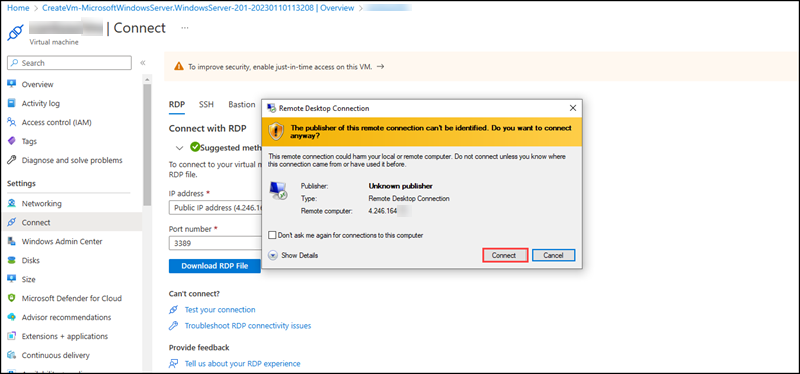
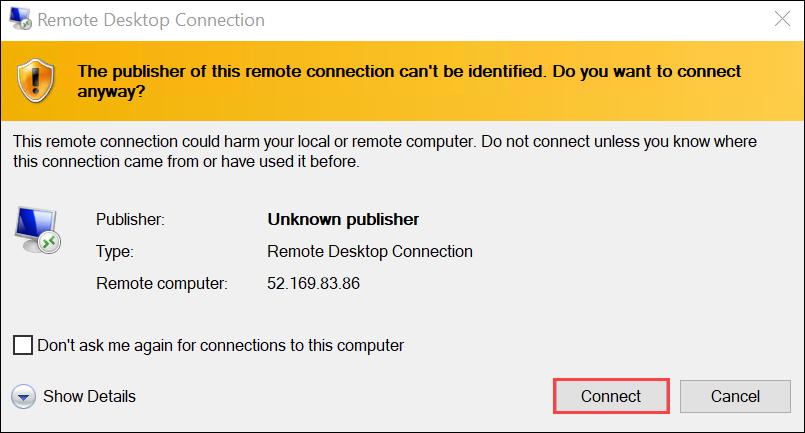
updated

diff --git a/Instructions/Labs/M02-Unit 3 Create and configure a virtual network gateway.md b/Instructions/Labs/M02-Unit 3 Create and configure a virtual network gateway.md
@@ -143,9 +143,9 @@ In this task, you'll connect to the Test VMs using RDP, you'll connect to both M
 
    ![](../media/m2-u3-t4-s5.png)
 
-1. Open the **ManufacturingVM.rdp** file that was just downloaded and click on **Connect** when prompted.
+     ![](../media/m2-u3-t4-s6-a.png)
 
-   ![](../media/m2-u3-t4-s6-a.png)
+1. Open the **ManufacturingVM.rdp** file that was just downloaded and click on **Connect** when prompted.
 
    ![](../media/m2-u3-t4-s6-b.png)
 
@@ -191,28 +191,34 @@ In this task you'll create CoreServicesVnet Gateway, you will create the CoreSer
 
 1. In **Search resources, services, and docs (G+/)** box at the top of the portal, enter **Virtual network gateway (1)**, and then select **Virtual network gateways (2)** from the results.
 
-    ![](../media/mod2-unit3-image1.png)
+   ![](../media/8.png)
 
 1. In Virtual network gateways, select **+ Create**.
+
+    ![](../media/7.png)
 
 1. Use the information in the following table to create the virtual network gateway:
 
    | **Tab**         | **Section**       | **Option**                                  | **Value**                    |
    | --------------- | ----------------- | ------------------------------------------- | ---------------------------- |
-   | Basics          | Project Details   | Subscription                                | No changes required          |
-   |                 |                   | ResourceGroup                               | **ContosoResourceGroup-<inject key="DeploymentID" enableCopy="false"/>**    |
-   |                 | Instance Details  | Name                                        | CoreServicesVnetGateway      |
-   |                 |                   | Region                                      | East US                      |
-   |                 |                   | Gateway type                                | VPN                          |
-   |                 |                   | SKU                                         | VpnGw1                       |
-   |                 |                   | Generation                                  | Generation1                  |
-   |                 |                   | Virtual network                             | CoreServicesVnet             |
-   |                 |                   | Subnet                                      | GatewaySubnet (10.20.0.0/27) |
-   |                 | Public IP address | Public IP address                           | Create new                   |
-   |                 |                   | Public IP address name                      | CoreServicesVnetGateway-ip   |
-   |                 |                   | Public IP address type                      | Standard                     |
-   |                 |                   | Enable active-active mode                   | Disabled                     |
-   |                 |                   | Configure BGP                               | Disabled                     |
+   | Basics          | Project Details   | Subscription                                |**No changes required (1)**        |
+   |                 |                   | ResourceGroup                               | **ContosoResourceGroup-<inject key="DeploymentID" enableCopy="false"/> (2)**    |
+   |                 | Instance Details  | Name                                        | **CoreServicesVnetGateway (3)**     |
+   |                 |                   | Region                                      | **East US (4)**                      |
+   |                 |                   | Gateway type                                | **VPN (5)**                          |
+   |                 |                   | SKU                                         | **VpnGw1 (6)**                       |
+   |                 |                   | Generation                                  | **Generation1 (7)**                 |
+   |                 |                   | Virtual network                             | **CoreServicesVnet (8)**            |
+   |                 |                   | Subnet                                      | **GatewaySubnet (10.20.0.0/27) (9)** |
+   |                 | Public IP address | Public IP address                           | **Create new (10)**                  |
+   |                 |                   | Public IP address name                      | **CoreServicesVnetGateway-ip (11)**   |
+   |                 |                   | Public IP address type                      | **Standard (12)**                    |
+   |                 |                   | Enable active-active mode                   | **Disabled (13)**                     |
+   |                 |                   | Configure BGP                               | **Disabled (14)**                    |                   |
+   |                 |                   | Enable Key Vault Access                        | **Disabled (15)**                    |
+
+   ![](../media/9.png)
+   ![](../media/10.png)
 
 1. Select **Review + create** and **Create**.
 
@@ -235,7 +241,7 @@ In this task, you'll create ManufacturingVnet Gateway, you will create a Manufac
 
 1. In the **Settings** blade, select **Subnets (1)**, and then **+ Subnet (2)**.
 
-    ![](../media/create-gatewaysubnet1.png)
+    ![](../media/11.png)
 
 1. Select the following configurations in the Add a Subnet page. Then select **Add (3)**. 
 
@@ -244,7 +250,7 @@ In this task, you'll create ManufacturingVnet Gateway, you will create a Manufac
     | Subnet purpose | **Virtual Network Gateway (1)** |
     | Size | **/27 (32 addresses) (2)** |
 
-    ![](../media/create-gatewaysubnet2.png)
+    ![](../media/12.png)
 
 1. In **Search resources, services, and docs (G+/)**, enter **Virtual network gateways**, and then select **Virtual network gateways** from the results.
 
@@ -293,30 +299,36 @@ In this task, you'll connect CoreServicesVnet to ManufacturingVnet, you will set
 
 1. On CoreServicesVnetGateway, from the left navigation menu, under **Settings** section select **Connections**, and then select **+ Add**.
 
+     ![](../media/6.png)
+
    >**Note**: You will not be able to complete this configuration until the virtual network gateways are fully deployed.
 
 1. On **Create connection** page of **Basics** tab, use the information in the following table to create the connection:
 
       | **Option**                     | **Value**                         |
       | ------------------------------ | --------------------------------- |
-      | Subscription                   | Leave default                     |
-      | Resource Group                 | **ContosoResourceGroup-<inject key="DeploymentID" enableCopy="false"/>** |
-      | Connection type                | VNet-to-VNet                      |
-      | Name                           | CoreServicesGW-to-ManufacturingGW |
-      | Location                       | East US                           |
+      | Subscription                   | **Leave default (1)**                    |
+      | Resource Group                 | **ContosoResourceGroup-<inject key="DeploymentID" enableCopy="false"/> (2)** |
+      | Connection type                | **VNet-to-VNet (3)**                     |
+      | Name                           | **CoreServicesGW-to-ManufacturingGW (4)** |
+      | Location                       | **East US (5)**                           |
 
 1. Select **Next: Settings >**
+
+     ![](../media/5.png)
    
 1. On **Create connection** page of **Settings** tab, use the information in the following table to create the connection:
 
       | **Option**                     | **Value**                         |
       | ------------------------------ | --------------------------------- |
-      | First virtual network gateway  | CoreServicesVnetGateway           |
-      | Second virtual network gateway | ManufacturingVnetGateway          |
-      | Shared key (PSK)               | abc123                            |         
-      | IKE Protocol                   | IKEv2                             |
-      | Use Azure Private IP Address   | Not selected                      |
-      | Enable BGP                     | Not selected                      |
+      | First virtual network gateway  | **CoreServicesVnetGateway (1)**         |
+      | Second virtual network gateway | **ManufacturingVnetGateway (2)**         |
+      | Shared key (PSK)               | **abc123 (3)**                        |         
+      | IKE Protocol                   | **IKEv2 (4)**                            |
+      | Use Azure Private IP Address   | **Not selected (5)**                      |
+      | Enable BGP                     | **Not selected (6)**                      |
+
+      ![](../media/1.png)
       
 1. To create the connection, select **Review + create** and **Create**.
    
@@ -330,30 +342,38 @@ In this task, you'll connect ManufacturingVnet to CoreServicesVnet, you'll estab
 
 1. on ManufacturingVnetGateway, from the left navigation menu, under **Settings** section select **Connections**, and then select **+ Add**.
 
+    ![](../media/6.png)
+
 1. Use the information in the following table to create the connection:
 
       | **Option**                     | **Value**                         |
       | ------------------------------ | --------------------------------- |
-      | Subscription                   | Leave default                     |
-      | Resource Group                 | **ContosoResourceGroup-<inject key="DeploymentID" enableCopy="false"/>** |
-      | Connection type                | VNet-to-VNet                      |
-      | Name                           | ManufacturingGW-to-CoreServicesGW |
-      | Location                       | North Europe                      |
+      | Subscription                   | **Leave default (1)**                    |
+      | Resource Group                 | **ContosoResourceGroup-<inject key="DeploymentID" enableCopy="false"/> (2)** |
+      | Connection type                | **VNet-to-VNet (3)**                    |
+      | Name                           | **ManufacturingGW-to-CoreServicesGW (4)** |
+      | Location                       | **North Europe (5)**                      |
 
-1. Select **Next: Settings >**
+1. Select **Next: Settings > (6)**
+
+   ![](../media/4.png)
    
 1. On **Create connection** page of **Settings** tab, use the information in the following table to create the connection:
 
       | **Option**                     | **Value**                         |
       | ------------------------------ | --------------------------------- |
-      | First virtual network gateway  | ManufacturingVnetGateway          |
-      | Second virtual network gateway | CoreServicesVnetGateway           |
-      | Shared key (PSK)               | abc123                            |
-      | IKE Protocol                   | IKEv2                             |
-      | Use Azure Private IP Address   | Not selected                      |
-      | Enable BGP                     | Not selected                      |
-  
+      | First virtual network gateway  | **ManufacturingVnetGateway (1)**         |
+      | Second virtual network gateway | **CoreServicesVnetGateway (2)**          |
+      | Shared key (PSK)               | **abc123 (3)**                           |
+      | IKE Protocol                   | **IKEv2 (4)**                             |
+      | Use Azure Private IP Address   | **Not selected (5)**                    |
+      | Enable BGP                     | **Not selected (6)**                     |
+
+      ![](../media/2.png)
+      
 1. To create the connection, select **Review + create** and **Create**.
+
+    ![](../media/3.png)
 
 ## Task 10: Verify that the connections connect 
 
